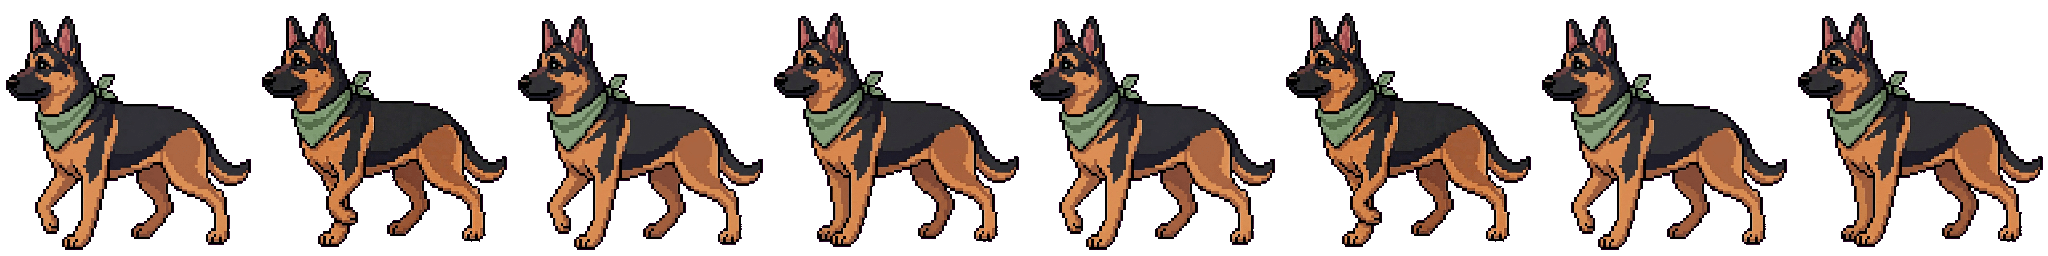
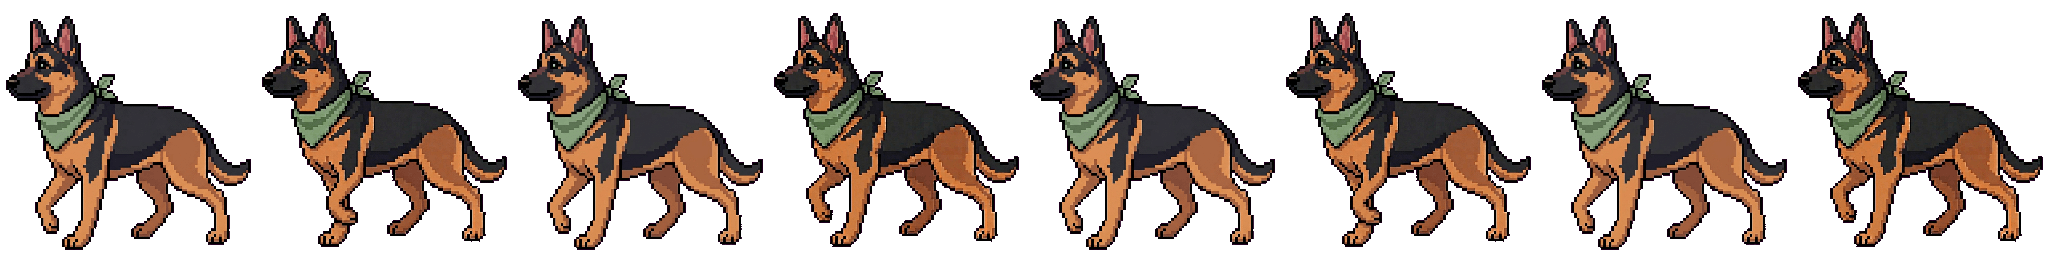
Walk cycle: true mid-stride fourth phase and natural cadence
The walk loop's fourth pose had all four paws planted, so every
stride cycle carried a dead standing beat that read as a sticker
swap. That frame is regenerated as a genuine passing phase (far
front leg swinging through, one paw clearly lifted, slight forward
lean) pose-edited from the adjacent gather frame so the coat and
proportions are pixel-identical.

Walk playback raised from 10fps to 12fps: the 8-frame two-stride
strip now runs at ~1.5 strides per second, a natural dog walking
cadence, and the roam displacement per stride (~half a body length)
matches the legs so there is no skating.

Verified with a real-time screen recording of the park walk: twelve
sampled frames across one second show distinct leg phases on every
frame with consistent silhouette and no frozen beat. 618/618 tests.

Claude-Session: https://claude.ai/code/session_01E3SyepRSXQa9XivHNfFC6J

Changed region(s): [[0.875, 0.5938, 0.9688, 0.9375], [0.375, 0.5938, 0.4688, 0.9375]]

diff --git a/artifacts/woofwatcher-mobile/lib/avatarLifeEngine.ts b/artifacts/woofwatcher-mobile/lib/avatarLifeEngine.ts
@@ -95,7 +95,9 @@ export const CARE_TWIN_SPRITE_MANIFEST: Record<CareTwinSpriteAction, CareTwinSpr
   "walk-loop": {
     key: "walk-loop",
     frameCount: 8,
-    fps: 10,
+    // 12fps over the two-stride strip keeps a natural ~1.5 strides/sec dog
+    // cadence; 10fps read as a choppy flipbook.
+    fps: 12,
     loop: true,
     anchor: "bottom-center",
     slotSize: 256,
